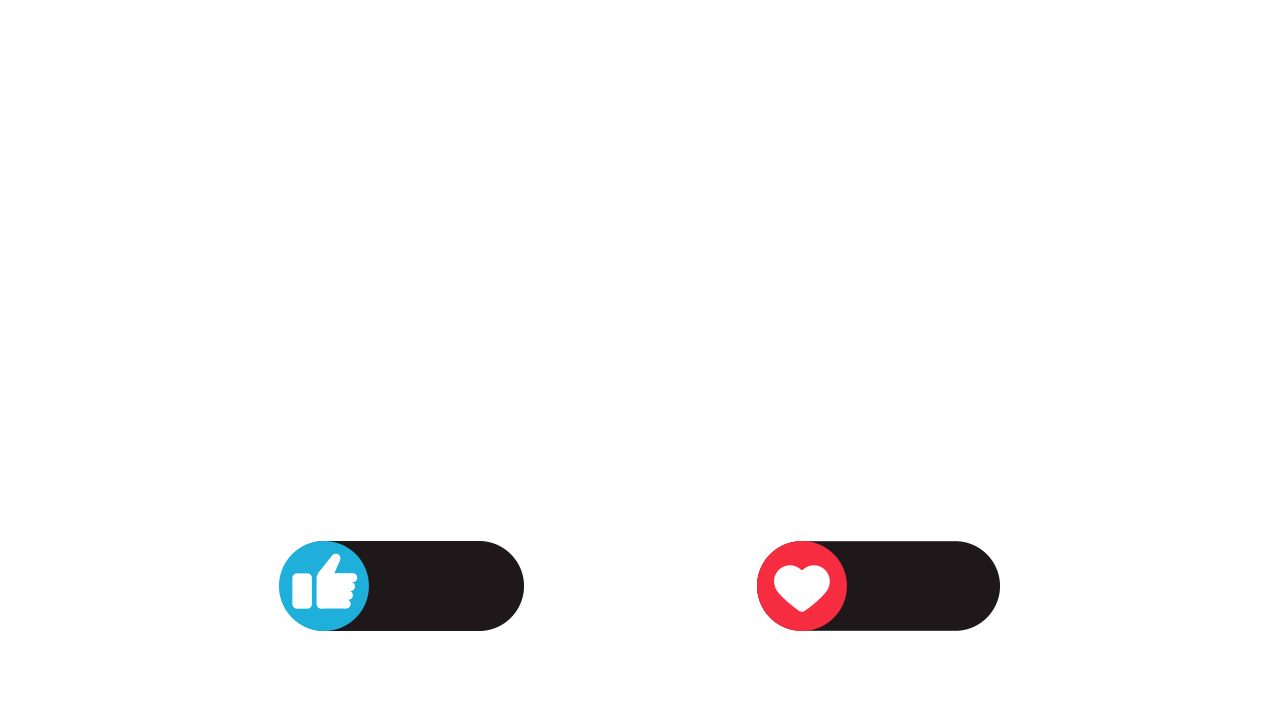
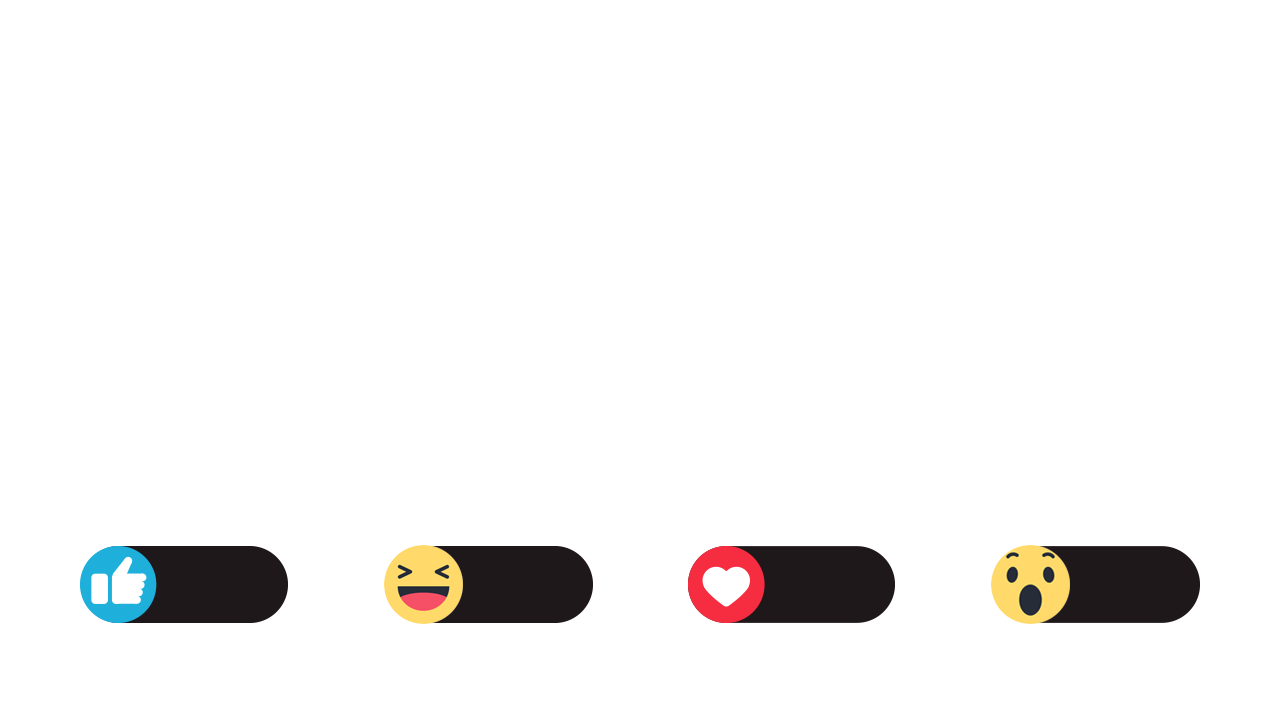
updated for blackink vote

Changed region(s): [[0.5312, 0.7333, 0.9375, 0.8861], [0.0625, 0.7333, 0.4688, 0.8861]]

diff --git a/js/fbvote.js b/js/fbvote.js
@@ -6,6 +6,8 @@ var realtimer = { "LIKE": 0, "LOVE": 0, "WOW": 0, "HAHA": 0, "SAD": 0, "ANGRY": 
 var insights = { "LIKE": 0, "LOVE": 0, "WOW": 0, "HAHA": 0, "SAD": 0, "ANGRY": 0 };
 var oldloves = 0;
 var oldlikes = 0;
+var oldwow = 0;
+var oldhaha = 0;
 
 function getRandomInt(min, max) {
     return Math.floor(Math.random() * (max - min + 1)) + min;
@@ -150,10 +152,16 @@ function voteArrayCounter(data, next) {
     $.each(data, function(i, v) {
         realtimer[v.type]++;
         if (v.type == "LIKE" && realtimer["LIKE"] > oldlikes) {
-            setTimeout(function() { animatevote("like", 300, 490); }, getRandomInt(50, 2500));
+            setTimeout(function() { animatevote("like", 100, 250); }, getRandomInt(50, 2500));
         }
         if (v.type == "LOVE" && realtimer["LOVE"] > oldloves) {
-            setTimeout(function() { animatevote("love", 775, 950); }, getRandomInt(50, 2500));
+            setTimeout(function() { animatevote("love", 400, 550); }, getRandomInt(50, 2500));
+        }
+                if (v.type == "HAHA" && realtimer["HAHA"] > oldhaha) {
+            setTimeout(function() { animatevote("haha", 700, 850); }, getRandomInt(50, 2500));
+        }
+                if (v.type == "WOW" && realtimer["WOW"] > oldwow) {
+            setTimeout(function() { animatevote("wow", 1000, 1150); }, getRandomInt(50, 2500));
         }
     });
     if (next) {
@@ -178,6 +186,8 @@ function pageLoop(url) {
 function applyVotes() {
     oldlikes = realtimer.LIKE;
     oldloves = realtimer.LOVE;
+        oldhaha = realtimer.HAHA;
+    oldwow = realtimer.WOW;
     $("#liken").text(realtimer.LIKE);
     $("#loven").text(realtimer.LOVE);
     $("#hahan").text(realtimer.HAHA);

diff --git a/css/page.css b/css/page.css
@@ -54,28 +54,27 @@
 #like {
     position: absolute;
     top: 505px;
-    left: 367px;
+    left: 105px;
 }
 
 #love {
     position: absolute;
     top: 505px;
-    left: 843px;
+    left: 715px;
 
 }
 
 #haha {
     position: absolute;
-    top: 537px;
-    left: 855px;
-    display: none;
+    top: 505px;
+    left: 415px;
+
 }
 
 #wow {
     position: absolute;
     top: 505px;
-    left: 367px;
-	display: none;
+    left: 1020px;
 }
 
 #sad {
